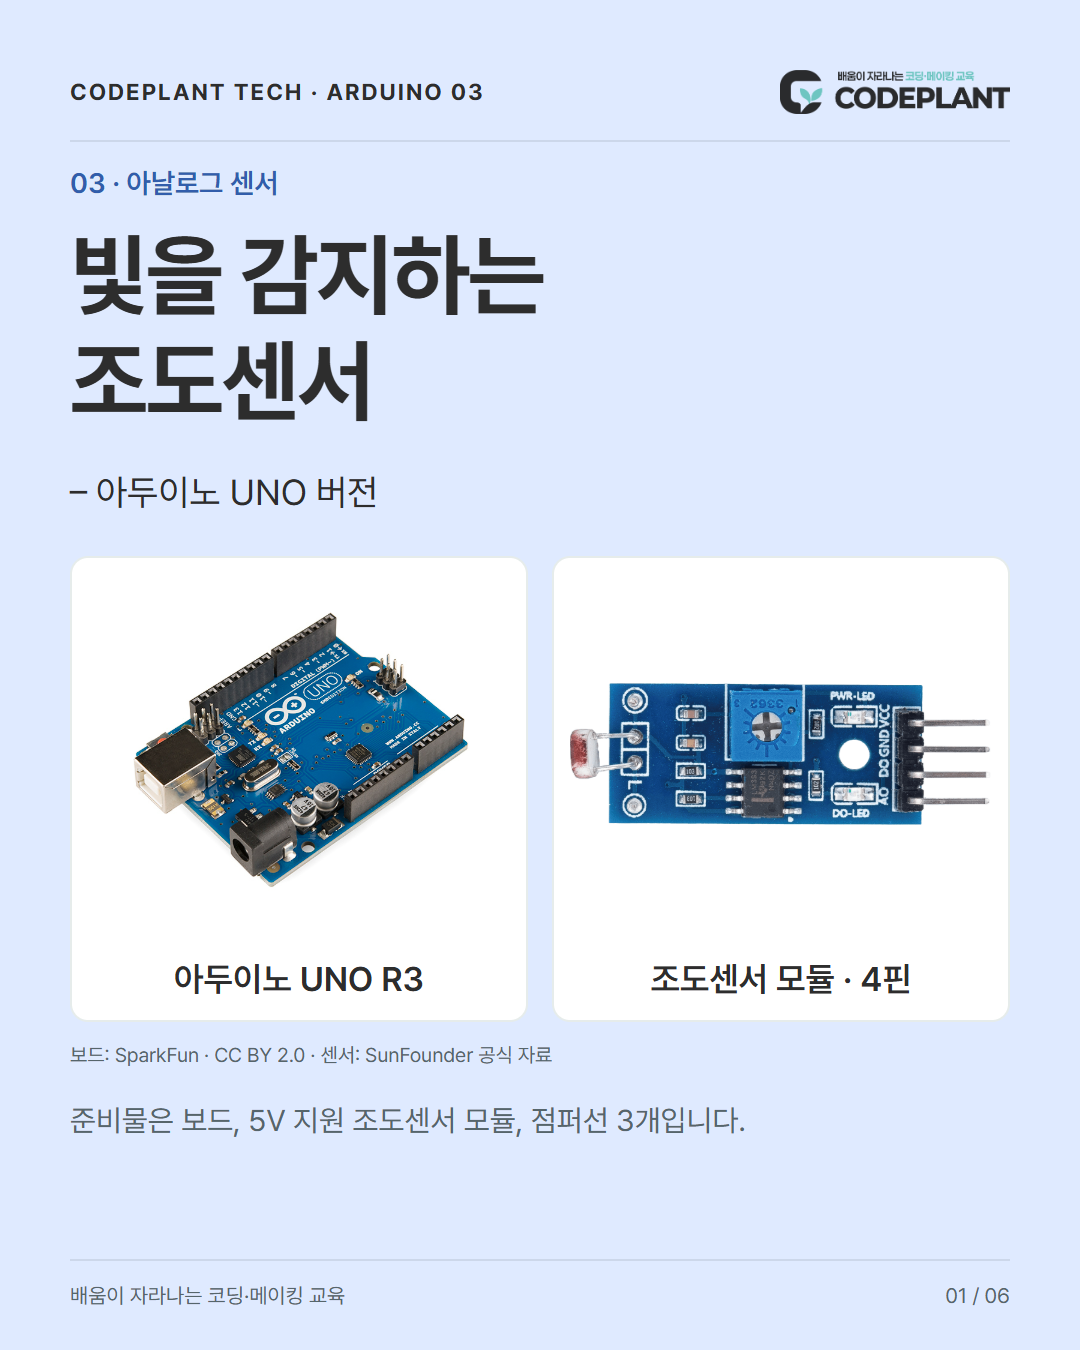
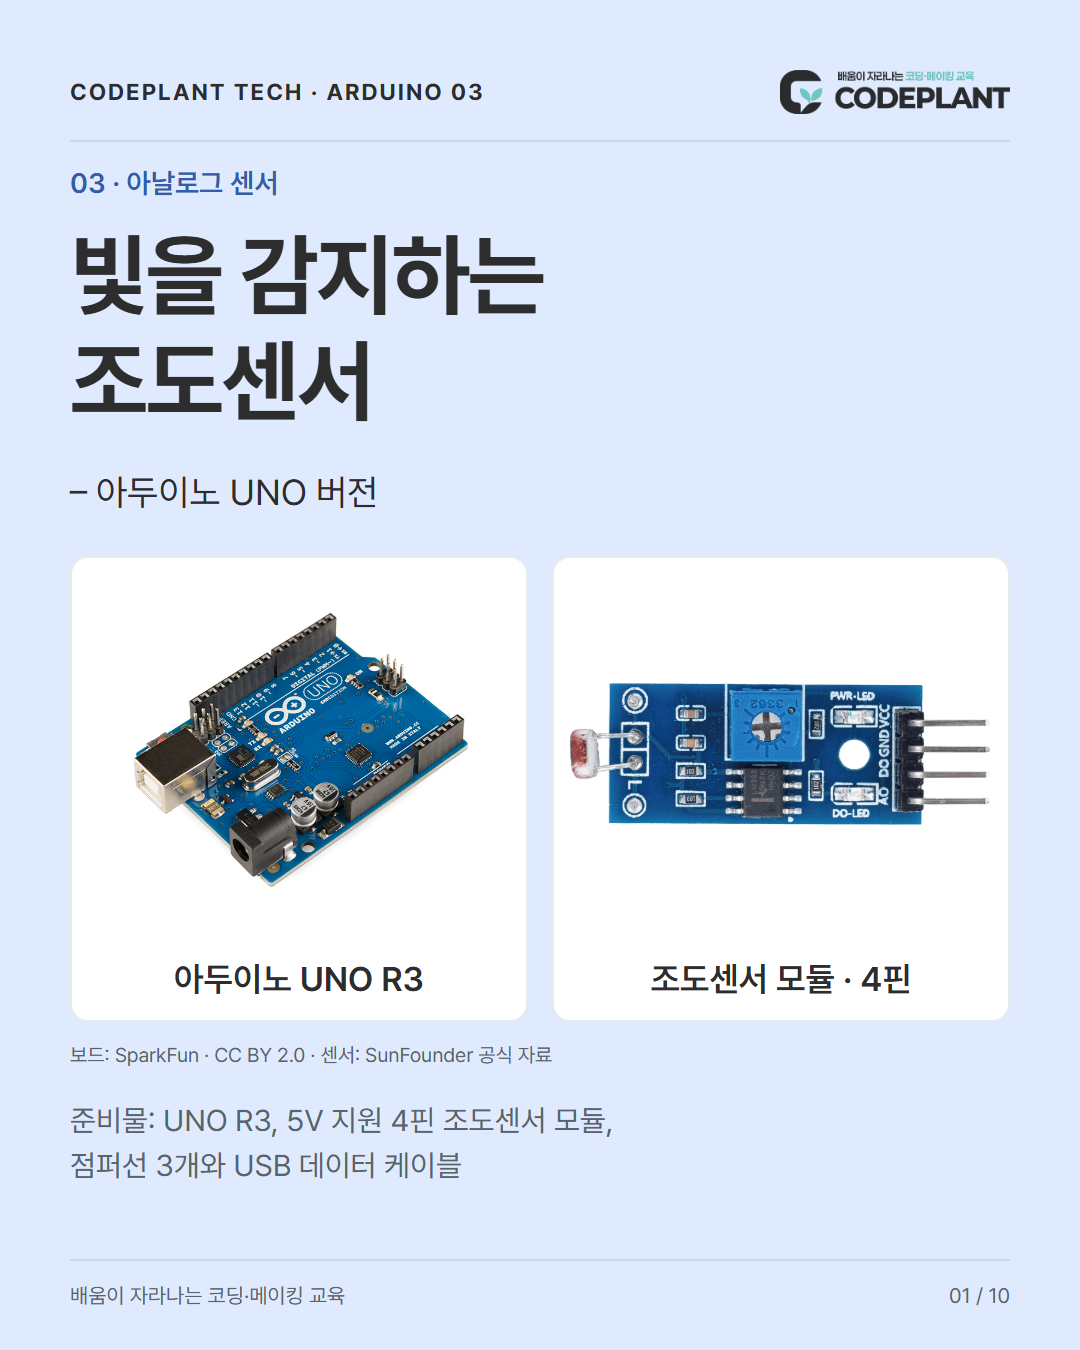
Update arduino-001-cds-ao educational cards and code

Changed region(s): [[0.0611, 0.8089, 0.6722, 0.8711], [0.8861, 0.9333, 0.9167, 0.9644]]

diff --git a/arduino/001-cds-ao/circuit_preview_do.html b/arduino/001-cds-ao/circuit_preview_do.html
@@ -1,0 +1,77 @@
+<!doctype html>
+<html lang="ko">
+<head>
+  <meta charset="utf-8" />
+  <meta name="viewport" content="width=device-width, initial-scale=1" />
+  <title>Arduino UNO + 모듈형 CDS 센서 DO 회로</title>
+  <script type="module" src="https://unpkg.com/@wokwi/elements@1.9.2/dist/wokwi-elements.bundle.js"></script>
+  <style>
+    * { box-sizing: border-box; }
+    html, body { margin: 0; width: 100%; height: 100%; background: #eef3f7; font-family: "Malgun Gothic", "Noto Sans KR", sans-serif; }
+    .canvas { position: relative; width: 1200px; height: 760px; margin: 0 auto; overflow: hidden; background: #fff; }
+    h1 { position: absolute; left: 48px; top: 28px; margin: 0; font-size: 30px; color: #152635; }
+    .subtitle { position: absolute; left: 50px; top: 76px; color: #607281; font-size: 17px; }
+    .board { position: absolute; left: 180px; top: 145px; transform: scale(1.2); transform-origin: top left; filter: drop-shadow(0 5px 8px #0003); }
+    .sensor { position: absolute; left: 907.5px; top: 321.875px; transform: scale(1.25) rotate(180deg); transform-origin: top left; filter: drop-shadow(0 5px 8px #0003); }
+    .wire-layer { position: absolute; inset: 0; width: 1200px; height: 760px; pointer-events: none; }
+    .wire { fill: none; stroke-width: 8; stroke-linejoin: round; stroke-linecap: round; }
+    .blue { stroke: #315DAB; }
+    .red { stroke: #e31c23; }
+    .black { stroke: #151515; }
+    .yellow { stroke: #f2cc0c; filter: drop-shadow(0 0 1px #725f00); }
+    .joint { stroke: #fff; stroke-width: 2; }
+    .label { position: absolute; padding: 7px 12px; border-radius: 9px; color: #fff; font-weight: 700; font-size: 16px; box-shadow: 0 2px 5px #0003; }
+    .label.red { background: #d71920; }
+    .label.black { background: #161616; }
+    .label.yellow { background: #315DAB; color: #fff; }
+    .vcc { left: 330px; top: 397px; }
+    .gnd { left: 420px; top: 420px; }
+    .a0 { left: 590px; top: 128px; }
+    .module-title { position: absolute; left: 690px; top: 208px; color: #253847; font-size: 20px; font-weight: 700; }
+    .unused { position: absolute; left: 935px; top: 264px; padding: 5px 9px; border: 2px dashed #99a6af; border-radius: 8px; background: #fff; color: #657680; font-size: 14px; font-weight: 700; }
+    .pin-guide { position: absolute; left: 687px; top: 328px; padding: 10px 14px; border: 2px solid #d9e2e8; border-radius: 10px; background: #fff; color: #354956; font-size: 15px; line-height: 1.6; }
+    .pin-guide strong { color: #192c3a; }
+    .note { position: absolute; left: 50px; right: 50px; bottom: 33px; height: 88px; border-radius: 14px; background: #f1f7fb; border: 2px solid #d5e3ec; display: flex; align-items: center; justify-content: center; gap: 34px; font-size: 18px; color: #253847; }
+    .swatch { display: inline-block; width: 34px; height: 7px; border-radius: 5px; margin-right: 9px; vertical-align: middle; }
+  </style>
+</head>
+<body>
+  <main class="canvas" aria-label="Arduino UNO 모듈형 CDS 센서 DO 회로도">
+    <h1>Arduino UNO + 모듈형 CDS 센서</h1>
+    <div class="subtitle">디지털 출력 사용: CDS의 DO 핀을 Arduino D2에 연결</div>
+
+    <wokwi-arduino-uno class="board"></wokwi-arduino-uno>
+    <wokwi-photoresistor-sensor class="sensor" lux="500"></wokwi-photoresistor-sensor>
+    <div class="module-title">CDS 센서 모듈</div>
+
+    <svg class="wire-layer" viewBox="0 0 1200 760" aria-hidden="true">
+      <!-- UNO 5V=(372,374.8), GND.2=(383.4,374.8), A0=(429.6,374.8) -->
+      <!-- Rotated sensor: VCC=(692.5,301.875), GND=(692.5,289.375), DO=(692.5,277.125), AO=(692.5,265) -->
+      <path class="wire red" d="M372 374.8 V430 H620 V301.875 H692.5" />
+      <path class="wire black" d="M383.4 374.8 V450 H640 V289.375 H692.5" />
+      <path class="wire blue" d="M463.8 155.8 V115 H600 V277.125 H692.5" />
+
+      <circle class="joint" cx="372" cy="374.8" r="5" fill="#e31c23" />
+      <circle class="joint" cx="383.4" cy="374.8" r="5" fill="#151515" />
+      <circle cx="463.8" cy="155.8" r="5" fill="#315DAB" stroke="#fff" stroke-width="2" />
+      <circle class="joint" cx="692.5" cy="301.875" r="5" fill="#e31c23" />
+      <circle class="joint" cx="692.5" cy="289.375" r="5" fill="#151515" />
+      <circle cx="692.5" cy="277.125" r="5" fill="#315DAB" stroke="#fff" stroke-width="2" />
+      <circle cx="692.5" cy="265" r="5" fill="#aab4bb" stroke="#fff" stroke-width="2" />
+    </svg>
+
+    <div class="label red vcc">5V → VCC</div>
+    <div class="label black gnd">GND</div>
+    <div class="label yellow a0">D2 → DO</div>
+    <div class="unused">AO 미사용</div>
+    <div class="pin-guide"><strong>모듈 핀 순서</strong><br>화면 위부터 AO · DO · GND · VCC<br><strong>이번 회로:</strong> DO만 측정</div>
+
+    <div class="note">
+      <span><i class="swatch" style="background:#e31c23"></i>빨강: 5V → VCC</span>
+      <span><i class="swatch" style="background:#151515"></i>검정: GND → GND</span>
+      <span><i class="swatch" style="background:#315DAB"></i>파랑: D2 → DO</span>
+      <strong>AO 핀은 연결하지 않음</strong>
+    </div>
+  </main>
+</body>
+</html>

diff --git a/arduino/001-cds-ao/verify.py b/arduino/001-cds-ao/verify.py
@@ -1,0 +1,30 @@
+"""Run inside this lesson: python verify.py. No hardware is required."""
+import json
+import re
+from pathlib import Path
+
+p = Path(__file__).parent
+for name, signal, board_pin, color, unused in [
+    ('diagram.json', 'AO', 'A0', 'yellow', 'DO'),
+    ('diagram-do.json', 'DO', '2', 'blue', 'AO'),
+]:
+    d = json.loads((p / name).read_text(encoding='utf8'))
+    assert len(d['connections']) == 3
+    assert {(a, b, c) for a, b, c, route in d['connections']} == {
+        ('uno:5V', 'cds:VCC', 'red'), ('uno:GND.2', 'cds:GND', 'black'),
+        (f'uno:{board_pin}', f'cds:{signal}', color)}
+    assert not any(f'cds:{unused}' in pair[:2] for pair in d['connections'])
+code = (p / 'sketch-do.ino').read_text(encoding='utf8')
+assert re.search(r'CDS_DO_PIN\s*=\s*2', code)
+assert 'pinMode(CDS_DO_PIN, INPUT)' in code
+assert 'digitalRead(CDS_DO_PIN)' in code
+assert 'state == LIGHT_DETECTED ? HIGH : LOW' in code
+assert 'Serial.begin(9600)' in code
+preview = (p / 'circuit_preview_do.html').read_text(encoding='utf8')
+# Official pin coordinates: UNO D2=(236.5,9), LDR DO=(172,35.8).
+assert (180 + 236.5 * 1.2, 145 + 9 * 1.2) == (463.8, 155.8)
+assert (907.5 - 172 * 1.25, 321.875 - 35.8 * 1.25) == (692.5, 277.125)
+assert 'M463.8 155.8 V115 H600 V277.125 H692.5' in preview
+assert 'AO 미사용' in preview and 'DO 미사용' not in preview
+assert (p / 'README.md').read_text(encoding='utf8').count('CDS_DO_PIN = 2') >= 1
+print('PASS: distinct AO/DO nets, unused pins, D2 code, official pin endpoints, README code')

diff --git a/arduino/001-cds-ao/README.md b/arduino/001-cds-ao/README.md
@@ -1,71 +1,27 @@
-# Arduino UNO + 조도센서 AO
+# 빛을 감지하는 조도센서 · Arduino UNO R3
 
-빛의 변화를 아날로그 입력으로 읽고 시리얼 모니터에 출력하는 입문 예제입니다.
+03편은 같은 4핀 모듈의 AO와 DO를 **순서대로** 실습합니다. AO는 밝기 변화를 숫자로 읽고, DO는 모듈이 정한 기준과 비교한 결과를 0·1로 읽습니다. 두 실습은 연결과 코드가 다릅니다.
 
-## 부품
+## 준비물
 
-- Arduino UNO R3, USB 케이블
-- 5V 지원 모듈형 LDR 센서(VCC, GND, AO, DO 표시), 점퍼선 3개
-- 두 다리만 있는 LDR 원소자는 이 배선을 사용할 수 없습니다.
+UNO R3, 데이터용 USB 케이블, **5V 지원 4핀 조도센서 모듈**(VCC/GND/AO/DO), 점퍼선 3개, Arduino IDE. 설명과 표지의 예시 제품은 [SunFounder Photoresistor Module](https://docs.sunfounder.com/projects/umsk/en/latest/01_components_basic/11-component_photoresistor.html)이며 공급 전압은 3.3~5V입니다. 두 다리 LDR 원소자나 3핀 제품은 이 회로와 다릅니다. 핀 위치는 모듈에 인쇄된 이름으로 확인하세요.
 
-## 연결
+## 1. AO를 A0에 연결해 밝기 변화 읽기
 
-USB 전원을 뺀 상태에서 연결하세요. 모듈마다 핀 순서가 다르므로 실크 인쇄를 확인하세요.
+USB를 빼고 아래 세 선을 연결합니다. DO는 비워 둡니다.
 
-| Arduino UNO | 센서 | 용도 |
-|---|---|---|
+| UNO | 센서 | 역할 |
+| --- | --- | --- |
 | 5V | VCC | 전원 |
-| GND | GND | 공통 기준 |
+| GND | GND | 공통 접지 |
 | A0 | AO | 아날로그 입력 |
-| 미연결 | DO | 이번 예제에서 사용하지 않음 |
+| 연결 안 함 | DO | AO 실습에서 미사용 |
 
-![배선도](arduino_uno_cds_ao.png)
+![AO 회로](arduino_uno_cds_ao.png)
 
-## 실행
+아래 전체 코드를 새 스케치에 복사하거나 [sketch.ino](sketch.ino)를 엽니다.
 
-1. Arduino IDE에서 보드 Arduino UNO와 연결된 포트를 선택합니다.
-2. `sketch.ino`를 열어 업로드합니다. 추가 라이브러리는 필요하지 않습니다.
-3. 시리얼 모니터를 9600 baud로 엽니다.
-4. 센서를 가렸다가 빛을 비추며 `CDS AO:` 뒤의 숫자를 비교합니다.
-
-`setup()`은 시리얼 통신을 준비합니다. `loop()`는 A0의 값을 읽고 출력한 뒤 500ms 기다리는 과정을 반복합니다. UNO의 기본 ADC 결과는 0~1023이며 lux 값이 아닙니다. 실제 모듈은 밝을수록 값이 커지거나 작아질 수 있으니 두 환경에서 측정해 확인하세요.
-
-## 파일
-
-- `sketch.ino`: 업로드용 전체 코드
-- `diagram.json`: Wokwi 편집용 회로
-- `circuit_preview.html`: 핀 좌표 기반 회로 미리보기(Wokwi elements CDN 필요)
-- `arduino_uno_cds_ao.png`: 회로 이미지
-- `cards/`: 카드뉴스 PNG 6장
-- `caption.md`: 게시용 캡션 초안
-
-## 확인 범위
-
-핀 연결, 연결표와 코드의 A0 대응, 카드 PNG 렌더링을 검수한 교육용 예제입니다. 실제 하드웨어 업로드·측정은 아직 수행하지 않았습니다. ESP32/Pico에는 전압과 핀 연결을 그대로 적용하지 마세요.
-
-## 근거
-
-- [Arduino analogRead](https://docs.arduino.cc/language-reference/en/functions/analog-io/analogRead/)
-- [Wokwi 조도센서 모듈](https://docs.wokwi.com/parts/wokwi-photoresistor-sensor)
-
-CODEPLANT · 배움이 자라나는 코딩·메이킹 교육
-
-## 표지 사진 출처
-
-- UNO R3 사진: [SparkFun Electronics / Wikimedia Commons](https://commons.wikimedia.org/wiki/File:Arduino_Uno_-_R3.jpg), [CC BY 2.0](https://creativecommons.org/licenses/by/2.0/). 원본 비율 유지, 카드 안에서 표시 크기만 조절했습니다.
-- 4핀 조도센서 모듈 사진: [SunFounder 공식 Photoresistor Module 자료](https://docs.sunfounder.com/projects/umsk/en/latest/01_components_basic/11-component_photoresistor.html). SunFounder 제품 예시이며 모듈의 핀 배치는 제품에 따라 다릅니다. 표시 크기만 조절했습니다. 별도의 자유 이용 라이선스를 확인한 사진으로 표시하지 않습니다.
-
-## 카드 구성
-
-표지(실제 부품 사진) → 센서 설명 → 회로 → 연결표 → 핵심 코드와 실행 결과 → GitHub 안내, 총 6장입니다. 카드의 코드는 핵심 발췌이며 업로드에는 전체 `sketch.ino`를 사용하세요.
-
-TECH 공통 디자인: 블루 배경 #DFEAFF, 강조 #315DAB. 마지막 장도 같은 블루를 사용합니다.
-
-## 전체 예제코드
-
-아래 코드를 모두 복사하거나 sketch.ino를 열어 업로드하세요. 카드에는 핵심 부분만 담았습니다.
-
-~~~cpp
+```cpp
 const int CDS_AO_PIN = A0;
 
 void setup() {
@@ -80,15 +36,121 @@ void loop() {
 
   delay(500);
 }
-~~~
+```
 
-| 코드 | 하는 일 |
+| 코드 | 역할 |
 | --- | --- |
-| CDS_AO_PIN = A0 | 밝기 신호를 읽을 보드 핀 지정 |
-| Serial.begin(9600) | 시리얼 통신 준비 |
-| analogRead(CDS_AO_PIN) | 밝기 신호 전압을 0~1023의 값으로 읽기 |
-| Serial.print / println | 값의 이름과 숫자 표시 |
-| delay(500) | 0.5초 기다린 뒤 반복 |
+| `CDS_AO_PIN = A0` | A0를 입력 핀으로 지정합니다. |
+| `setup()` | 시작할 때 한 번 실행합니다. |
+| `Serial.begin(9600)` | 시리얼 속도를 준비합니다. |
+| `loop()` | 아래 작업을 반복합니다. |
+| `analogRead(CDS_AO_PIN)` | 입력 전압을 0~1023 숫자로 읽습니다. |
+| `Serial.print("CDS AO: ")` | 값 앞에 이름을 붙입니다. |
+| `Serial.println(cdsValue)` | 값을 출력하고 줄바꿈합니다. |
+| `delay(500)` | 0.5초 기다립니다. |
 
-시리얼 모니터는 9600으로 맞춥니다. 이 숫자는 lux가 아닌 밝기 변화의 참고값입니다.
+센서를 가리고 손을 떼며 숫자가 어떻게 달라지는지 비교하세요. 이 값은 **lux가 아닙니다**. 기준 SunFounder 모듈에서는 밝을수록 AO 값이 낮아집니다. 다른 회로의 모듈은 방향이 다를 수 있으므로 실제 결과를 확인하세요.
 
+## 2. DO를 D2에 연결하고 L LED 켜기
+
+USB를 다시 뺍니다. A0↔AO 선을 빼고 **D2↔DO**로 옮깁니다. 전원·접지 선은 유지합니다. AO를 비워 둡니다.
+
+| UNO | 센서 | 역할 |
+| --- | --- | --- |
+| 5V | VCC | 전원 |
+| GND | GND | 공통 접지 |
+| D2 | DO | 디지털 입력 |
+| 연결 안 함 | AO | DO 실습에서 미사용 |
+
+![DO 회로](arduino_uno_cds_do.png)
+
+별도의 스케치에 아래 전체 코드 또는 [sketch-do.ino](sketch-do.ino)를 넣습니다. Arduino IDE가 파일 이름과 같은 폴더 생성을 요청하면 허용하세요. **두 .ino 파일을 같은 스케치 폴더에 넣지 마세요.** 각각 setup/loop가 있어 하나씩 업로드해야 합니다.
+
+```cpp
+// CODEPLANT TECH 03: 5V-compatible four-pin LDR module, DO example.
+const int CDS_DO_PIN = 2;
+const int LIGHT_DETECTED = LOW; // SunFounder example; change after checking your module.
+
+void setup() {
+  pinMode(CDS_DO_PIN, INPUT);
+  pinMode(LED_BUILTIN, OUTPUT);
+  Serial.begin(9600);
+}
+
+void loop() {
+  int state = digitalRead(CDS_DO_PIN);
+  digitalWrite(LED_BUILTIN, state == LIGHT_DETECTED ? HIGH : LOW);
+  Serial.print("CDS DO: ");
+  Serial.println(state);
+  delay(500);
+}
+```
+
+| 코드 | 역할 |
+| --- | --- |
+| `CDS_DO_PIN = 2` | 센서 DO가 연결된 보드 D2를 지정합니다. |
+| `LIGHT_DETECTED = LOW` | 예시 모듈의 기준보다 밝은 상태를 0(LOW)로 지정합니다. 다른 모델은 결과를 확인하고 HIGH로 바꿀 수 있습니다. |
+| `pinMode(CDS_DO_PIN, INPUT)` | 모듈의 디지털 출력을 D2에서 입력으로 받습니다. 수동 2핀 스위치가 아닙니다. |
+| `pinMode(LED_BUILTIN, OUTPUT)` | UNO의 내장 L LED를 출력으로 설정합니다. 외부 LED 배선은 필요하지 않습니다. |
+| `Serial.begin(9600)` | 모니터와 같은 속도로 설정합니다. |
+| `digitalRead(CDS_DO_PIN)` | 입력을 0(LOW) 또는 1(HIGH)로 읽습니다. |
+| `state == LIGHT_DETECTED ? HIGH : LOW` | 감지 상태이면 LED 켜짐, 아니면 꺼짐으로 결정합니다. |
+| `digitalWrite(LED_BUILTIN, ...)` | 결정한 출력을 내장 L LED에 적용합니다. |
+| `Serial.print` / `Serial.println` | `CDS DO: ` 뒤에 0·1을 출력합니다. |
+| `delay(500)` | 0.5초마다 다시 읽습니다. 짧은 변화가 빠질 수 있으며 정밀 사건 계수용 예제가 아닙니다. |
+
+기준 SunFounder 모듈은 빛이 가변저항으로 정한 기준보다 밝으면 DO=LOW(0), 아니면 HIGH(1)입니다. 코드에서 **0이면 보드 L LED 켜짐, 1이면 꺼짐**입니다. 다른 모델은 출력 방향을 확인하세요.
+
+## Arduino IDE 설정과 화면 안내
+
+Arduino IDE는 코드를 작성하고 보드로 보내는 프로그램입니다. 설치부터 필요하면 [기본 세팅 편](../001-basic-setup/README.md)을 먼저 따라가세요.
+
+1. 실습에 맞는 코드 하나를 새 스케치에 넣습니다.
+2. USB를 연결하고 **Tools → Board → Arduino AVR Boards → Arduino Uno**를 선택합니다.
+3. **Tools → Port**에서 실제 보드의 포트를 선택합니다. Windows에서는 COM 뒤의 숫자이며 연결 전후 생기는 포트를 비교하세요.
+
+![UNO·포트 선택 · 공식 참고 화면](ide-uno-port-screen.png)
+
+4. 체크 표시(검증)를 누른 뒤 오른쪽 화살표(업로드)를 누릅니다.
+
+![검증·업로드 버튼 · 공식 참고 화면](ide-buttons-screen.png)
+
+5. 시리얼 모니터를 열고 **9600 baud**로 맞춥니다.
+
+![시리얼 모니터 · 공식 참고 화면](ide-serial-screen.png)
+
+이 화면들은 **기본 세팅 편에서 확인한 Arduino 공식 참고 화면**입니다. 이번 센서를 이 PC에서 실행한 캡처가 아닙니다. IDE 2 계열 자료이며 설치한 버전에 따라 위치와 메뉴 모양이 다릅니다. 화면 속 Hello World!는 공식 예제 출력입니다. 이번 예측 출력은 AO 실습에서 `CDS AO: 숫자`, DO 실습에서 `CDS DO: 0` 또는 `CDS DO: 1`입니다. 실제 측정값을 지어내지 않았습니다.
+
+## DO 기준을 직접 조절하기
+
+DO 코드를 실행해 모니터와 L LED를 관찰합니다. 센서를 가렸을 때와 손을 뗐을 때 0·1이 바뀌지 않으면, 모듈의 작은 가변저항 조절기를 조금씩 돌리고 다시 비교하세요. 회전 방향이나 횟수는 모든 제품에 공통으로 약속하지 않습니다. DO 기준을 바꾸는 것이며 AO를 lux로 보정하는 조절이 아닙니다. 기준 근처에서는 주변 빛의 변화로 LED가 깜빡일 수 있습니다.
+
+AO는 0~1023으로 **변화의 크기**를 읽고, DO는 0·1로 **기준을 넘었는지** 읽습니다. 두 .ino 코드와 회로를 섞지 마세요. UNO의 5V 전압을 ESP32/Pico의 3.3V 입력에 그대로 넣으면 안 됩니다.
+
+## 검증과 파일
+
+- 두 코드 모두 추가 라이브러리가 없습니다. Arduino AVR Boards 1.8.6 / UNO R3 컴파일 통과: AO 프로그램 1908 bytes / SRAM 196 bytes, DO 프로그램 2118 bytes / SRAM 196 bytes.
+- AO 연결은 diagram.json과 기존 스킬 검사로, DO 연결은 diagram-do.json과 `python verify.py`로 확인합니다. 기존 스킬 검증기는 AO만을 지원하므로 DO 배선을 넣은 파일을 AO 검증에 통과한 것으로 쓰지 않습니다.
+- 두 미리보기는 circuit_preview.html / circuit_preview_do.html이며 Wokwi 공식 핀 좌표로 작성했습니다.
+- 카드 10장 모두 1080×1350입니다. 마지막 장에도 공통 블루를 유지합니다.
+- **실제 하드웨어 업로드·센서 측정·LED 작동은 미시험입니다.** 코드 컴파일과 그림 검수를 실제 실행 검증이라고 쓰지 않습니다.
+
+## 근거와 사진·화면 출처
+
+- [SunFounder 4핀 모듈](https://docs.sunfounder.com/projects/umsk/en/latest/01_components_basic/11-component_photoresistor.html): 공급 전압, AO 방향, DO 비교 결과, 가변저항 기준.
+- [Wokwi 모듈 참고](https://docs.wokwi.com/parts/wokwi-photoresistor-sensor): 핀, AO, DO. 시뮬레이터 기본 2.5V/약 100lux 기준은 실제 제품에 고정된 값이 아닙니다.
+- [Arduino analogRead](https://docs.arduino.cc/language-reference/en/functions/analog-io/analogRead/), [digitalRead](https://docs.arduino.cc/language-reference/en/functions/digital-io/digitalRead/), [digitalWrite](https://docs.arduino.cc/language-reference/en/functions/digital-io/digitalWrite/).
+- [CODEPLANT 기존 조도센서 강의](https://www.youtube.com/watch?v=03Vf5RfLYts): 설명 흐름 참고. 영상의 ESP32 핀·임계값을 UNO로 복사하지 않았습니다.
+- [UNO 공식 도형/핀](https://github.com/wokwi/wokwi-elements/blob/main/src/arduino-uno-element.ts), [LDR 모듈 공식 도형/핀](https://github.com/wokwi/wokwi-elements/blob/main/src/photoresistor-sensor-element.ts): 미리보기 @wokwi/elements 1.9.2, MIT.
+- UNO 선택 Help Center 원본: https://support.arduino.cc/hc/article_attachments/6366428795164
+- [Arduino 업로드 참고 화면](https://docs.arduino.cc/software/ide-v2/tutorials/getting-started/ide-v2-uploading-a-sketch/), [시리얼 참고 화면](https://docs.arduino.cc/software/ide-v2/tutorials/ide-v2-serial-monitor/): Arduino Documentation / Karl Söderby·Jacob Hylén, CC BY-SA 4.0. Help Center 화면은 원본의 사용 조건을 유지합니다.
+
+## 표지 사진 출처
+
+- UNO R3 사진: [SparkFun Electronics / Wikimedia Commons](https://commons.wikimedia.org/wiki/File:Arduino_Uno_-_R3.jpg), [CC BY 2.0](https://creativecommons.org/licenses/by/2.0/). 원본 비율 유지, 카드 안에서 표시 크기만 조절했습니다.
+- 4핀 조도센서 모듈 사진: [SunFounder 공식 Photoresistor Module 자료](https://docs.sunfounder.com/projects/umsk/en/latest/01_components_basic/11-component_photoresistor.html). SunFounder 제품 예시이며 모듈의 핀 배치는 제품에 따라 다릅니다. 표시 크기만 조절했습니다. 별도의 자유 이용 라이선스를 확인한 사진으로 표시하지 않습니다.
+
+
+## 게시용 캡션과 댓글 DM
+
+[caption.md](caption.md)에 이 편의 GitHub 주소와 `git` 댓글 안내를 포함합니다. 이 게시물의 Manychat 버튼은 반드시 `arduino/001-cds-ao` 폴더로 연결합니다. 등록 전에는 이 편의 실제 DM 발송이 켜졌다고 보고하지 않습니다.

diff --git a/arduino/001-cds-ao/caption.md b/arduino/001-cds-ao/caption.md
@@ -2,15 +2,18 @@
 
 댓글에 'git'을 남기면 전체 코드와 연결 방법이 있는 GitHub 링크를 DM으로 보내드려요.
 
-센서를 가렸을 때와 손을 뗐을 때, 시리얼 모니터의 숫자가 어떻게 달라지는지 비교해 보세요.
+이번에는 아날로그와 디지털 입력을 함께 배웁니다.
+① AO를 A0에 연결해 밝기 변화를 0~1023으로 읽기
+② USB를 빼고 AO 선을 DO→D2로 옮겨 0·1 읽기
+③ 모듈의 조절기로 기준을 바꾸고 보드의 L LED 확인하기
 
-준비물은 Arduino UNO R3, 5V 지원 4핀 조도센서 모듈, 점퍼선 3개입니다. USB를 빼고 5V↔VCC, GND↔GND, A0↔AO를 연결합니다. DO는 연결하지 않습니다. 모듈마다 핀 위치가 다르니 인쇄된 이름을 확인하세요.
+UNO R3, 5V 지원 4핀 조도센서 모듈, 점퍼선 3개와 USB 데이터 케이블을 준비하세요. 전원은 5V↔VCC, GND↔GND입니다. 모듈의 인쇄된 핀 이름을 확인하세요.
 
-전체 코드를 업로드하고 시리얼 모니터를 9600 baud로 열면 0.5초마다 값이 나옵니다. 이 값은 밝기 변화의 참고값이며 lux(럭스)는 아닙니다. 값이 커지는지 작아지는지는 실제 센서로 확인합니다.
+AO 실습은 sketch.ino, DO 실습은 sketch-do.ino를 각각 업로드합니다. 시리얼 모니터는 둘 다 9600 baud입니다. AO의 숫자는 lux(럭스)가 아닙니다. SunFounder 예시 모듈은 기준보다 밝으면 DO가 0이고 L LED가 켜집니다. 다른 모듈은 출력 방향을 실제로 확인하세요.
 
-전체 코드와 실행 방법: https://github.com/CodeplantEDU/codeplant-tech/tree/main/arduino/001-cds-ao
+전체 코드와 두 회로: https://github.com/CodeplantEDU/codeplant-tech/tree/main/arduino/001-cds-ao
+유튜브: https://www.youtube.com/@codeplant2024
 
-사진: SparkFun Electronics(CC BY 2.0) / SunFounder 공식 자료. 자세한 출처는 저장소 README에 있습니다.
-다음 편: 디지털센서의 0과 1 읽기.
+사진: SparkFun(CC BY 2.0), SunFounder 공식 제품 자료(별도 자유 이용 라이선스 미확인). 원본·사용 조건·기술 출처는 저장소 README에 있습니다. 실제 하드웨어 동작은 미시험입니다.
 
-#코드플랜트 #CODEPLANT #아두이노 #Arduino #조도센서 #센서활용 #피지컬컴퓨팅 #코딩교육
+#코드플랜트 #아두이노 #조도센서 #디지털입력 #코딩교육
